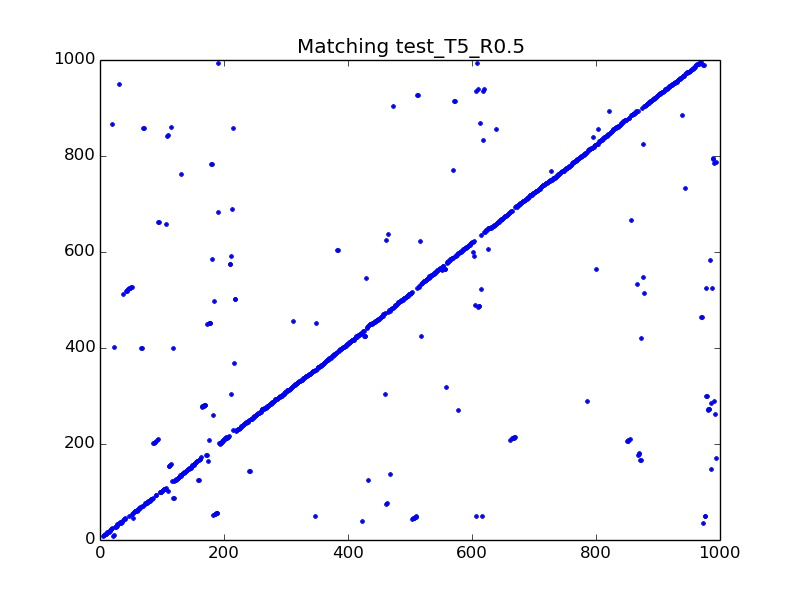
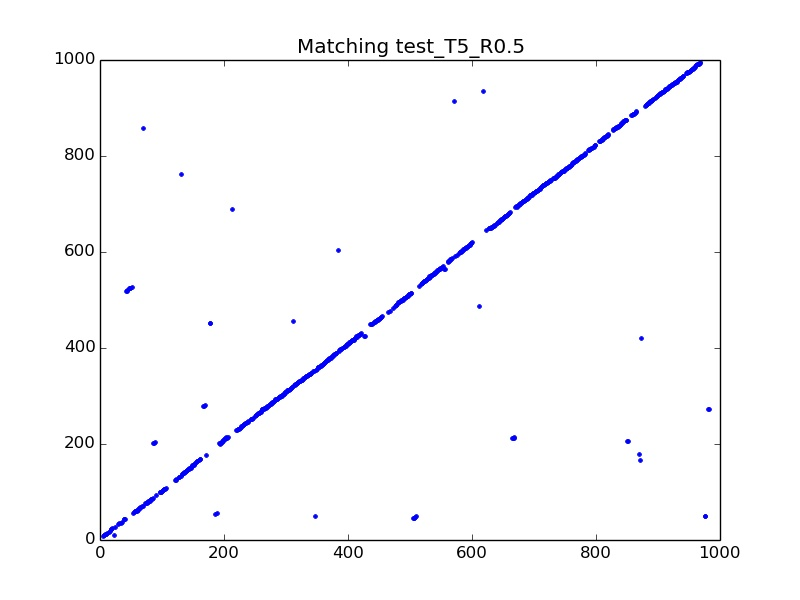
update result

diff --git a/model.py b/model.py
@@ -211,7 +211,7 @@ class Net(object):
         self.writer.close()
 
     def test(self, args):
-        for test_epoch in range(1, args.epoch):
+        for test_epoch in range(17, args.epoch):
             self.test_epoch = test_epoch
 
             # Initial layer's variables
@@ -250,15 +250,22 @@ class Net(object):
                 test_code[id]  = self.sess.run(self.d_fake_z, feed_dict=feed_dict)
             print ("Test code extraction done!")
         
+            ## ANN search
+            start_time = time.time()
+            reslut, dists = getANN(train_code, test_code)
+            print("ANN search time: %4.4f"  % (time.time() - start_time))
+
             ## Measure vector corrcoeffience
+            start_time = time.time()
             D          = self.vec_D(train_code, test_code)
             match      = self.getMatch(D, args.v_ds, args.vmax, args.vmin, args.Rwindow)
+            print("SeqSLAM search time: %4.4f"  % (time.time() - start_time))
             result_dir = os.path.join(args.result_dir, args.model_dir)
             if not os.path.exists(result_dir):
                 os.makedirs(result_dir)
             scipy.misc.imsave(os.path.join(result_dir, 'MATRIX', \
                                            args.test_dir+'_'+str(test_epoch)+'_matrix.jpg'), D * 255)
-        
+
             ## Save matching 
             m = match[:,0]
             thresh = 0.95

diff --git a/parameters.py b/parameters.py
@@ -47,7 +47,7 @@ def Param():
     flags.DEFINE_float("vmax",            1.2,          "max velocity of seqslam")
     flags.DEFINE_integer("Rwindow",       10,           "rainbow")
     flags.DEFINE_integer("test_len",      1000,          "test data length")
-    flags.DEFINE_string("test_dir",    "test_T10_R2.5",   "Directory name to extract image datas")
+    flags.DEFINE_string("test_dir",    "test_T10_R1",   "Directory name to extract image datas")
 
     ## Flag
     flags.DEFINE_boolean("is_train",      False,        "True for training, False for testing [False]")

diff --git a/pyseqslam/demo.py b/pyseqslam/demo.py
@@ -70,7 +70,7 @@ def demo():
     ## show some results
     if len(results.matches) > 0:
         m = results.matches[:,0] # The LARGER the score, the WEAKER the match.
-        thresh=2  # you can calculate a precision-recall plot by varying this threshold
+        thresh=0.95  # you can calculate a precision-recall plot by varying this threshold
         m[results.matches[:,1]>thresh] = np.nan # remove the weakest matches
         plt.plot(m,'.')      # ideally, this would only be the diagonal
         plt.title('Matchings')   

diff --git a/utils.py b/utils.py
@@ -1,4 +1,5 @@
 from random import shuffle
+from pyflann import *
 import scipy.misc
 import numpy as np
 
@@ -161,3 +162,8 @@ def getMatches(DD, v_ds, vmax, vmin, Rwindow):
         
     return matches
 
+def getANN(data, test, k=10):
+
+    flann = FLANN()
+    result, dists = flann.nn(data, test, k, algorithm="kmeans", branching=32, iterations=10, checks=16)
+    return result, dists
